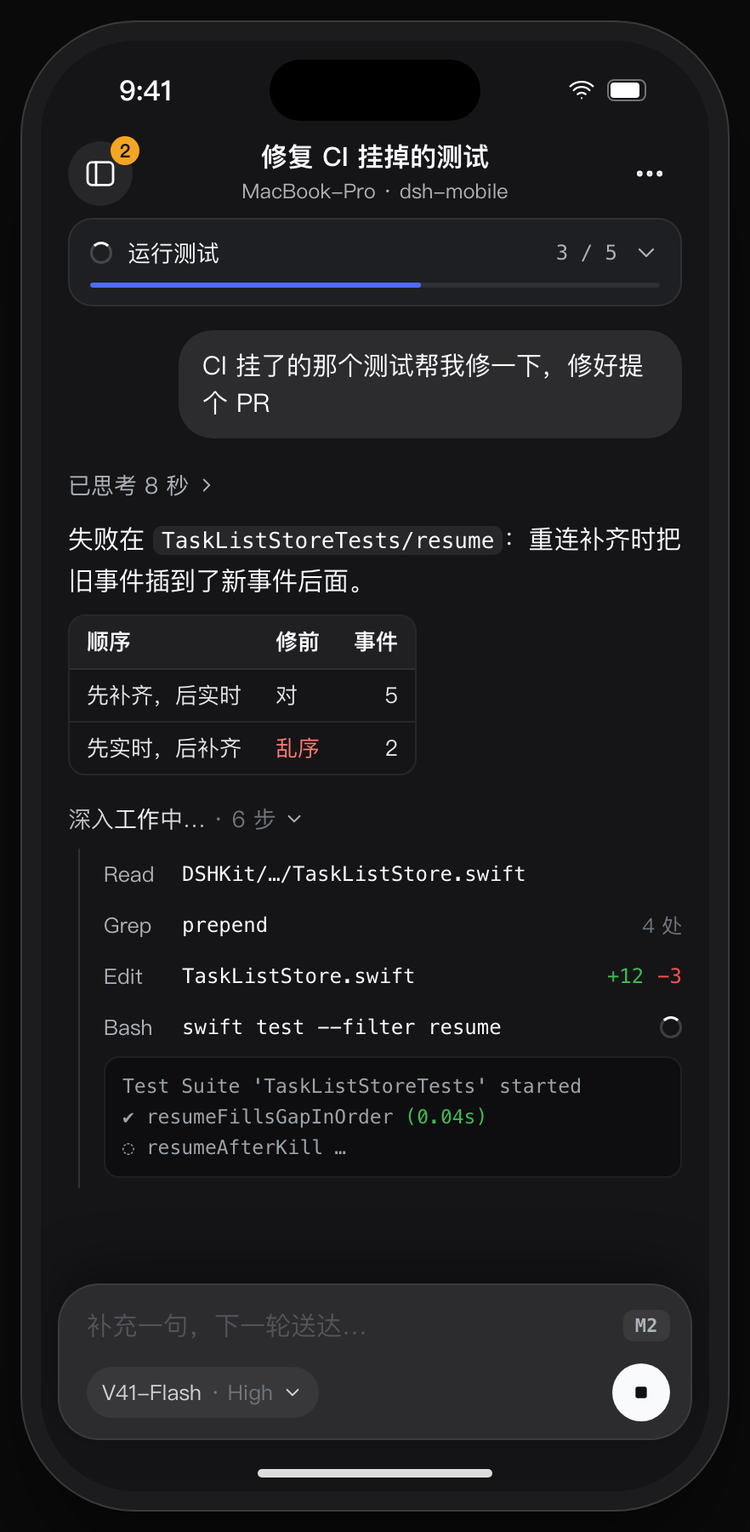
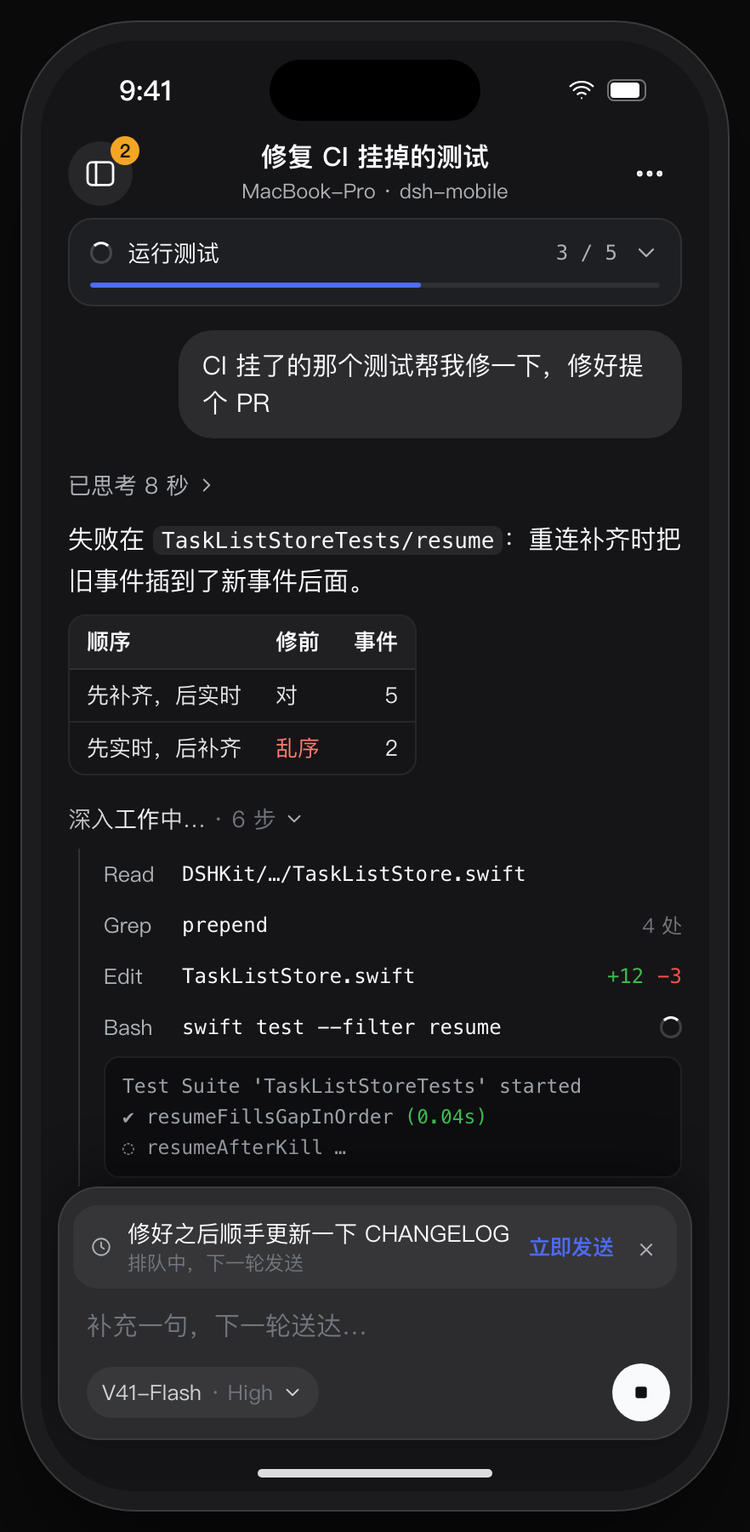
Follow-up queue: D18 amended, D89 amended, D101, D102; screens 04, 06, X1

Changed region(s): [[0.0612, 0.7778, 0.949, 0.8711]]

diff --git a/design/board.html b/design/board.html
@@ -433,9 +433,14 @@ svg.s{width:16px;height:16px} svg.xs{width:13px;height:13px} svg.l{width:24px;he
     </div>
   </div>
   <div class="composer">
-    <div class="ph" style="display:flex;align-items:center"><span style="opacity:.55">补充一句，下一轮送达…</span><span class="mtag mx">M2</span></div>
+    <div style="display:flex;align-items:center;gap:9px;background:rgba(255,255,255,.05);border-radius:14px;padding:7px 8px 7px 10px;margin:-3px -4px 11px -8px">
+      <svg class="i xs" style="color:var(--t2);flex:none"><use href="#clock"/></svg>
+      <div style="flex:1;min-width:0"><div style="font-size:13.5px;color:var(--t1);white-space:nowrap;overflow:hidden;text-overflow:ellipsis">修好之后顺手更新一下 CHANGELOG</div><div style="font-size:11.5px;color:var(--t3)">排队中，下一轮发送</div></div>
+      <span style="font-size:12.5px;font-weight:600;color:var(--blue);flex:none">立即发送</span>
+      <span style="font-size:15px;color:var(--t2);width:20px;text-align:center;flex:none">×</span>
+    </div>
+    <div class="ph">补充一句，下一轮送达…</div>
     <div class="bar">
-      
       <span class="pill">V41-Flash <span class="w">· High</span><svg class="i xs"><use href="#chevd"/></svg></span>
       <span class="send stop"><svg class="i s"><use href="#square"/></svg></span>
     </div>
@@ -582,7 +587,8 @@ svg.s{width:16px;height:16px} svg.xs{width:13px;height:13px} svg.l{width:24px;he
   <li>顶部钉住里程碑进度（S3），点开看全部步骤。</li>
   <li>回复里的 Markdown 表格画成原生表格（S28）：表头加底色，行间细线，列按分隔行对齐；单元格太长就换行，表格比屏幕宽时只在自己那一行里横向滑动。</li>
   <li>发送键变<b>停止</b>（S5）；模型胶囊就是“Change model”，任务中可换（S6）。</li>
-  <li>运行中在输入框里补充一句、排到下一轮还是 M2；运行中的会话页只有停止和换模型。任务完成后接着说见 06。</li>
+  <li>运行中也能在输入框里补充一句：默认<b>排队</b>，显示在输入框上方，这一轮做完后作为下一轮发给 Agent，多条按顺序各跑一轮。“立即发送”把它插进当前这一轮，Agent 下一步就读到；× 移除。Agent 收下后它离开队列，变成转录里的用户气泡，位置就是 Agent 收到它的地方。打字时发送键代替停止，发出后停止键回来。</li>
+  <li>停止任务时，还在排队的话放回输入框，不会偷偷发出。断线重连后队列和顺序不变。任务完成后接着说见 06，停止后接着说见 X1。</li>
 </ul></div>
 </div>
 
@@ -627,7 +633,7 @@ svg.s{width:16px;height:16px} svg.xs{width:13px;height:13px} svg.l{width:24px;he
   <li>“用时”只算最后一轮：从这一轮开始到结束，不算两轮之间的空闲。</li>
   <li>M1 的结果是文字：写清楚产物在执行端的哪个路径。</li>
   <li>虚线文件卡是 <b>M3</b>：Quick Look 预览、分享、存到文件。</li>
-  <li>完成后输入框直接可以接着说：发到同一个 DSH 会话（网页上也是这一个），你的气泡和新的回复接在这个回答下面，任务回到运行中，“用时”从这一轮算起。执行端不支持时，输入框和以前一样不能输入。失败或停止后接着说还是 M2。</li>
+  <li>完成后输入框直接可以接着说：发到同一个 DSH 会话（网页上也是这一个），你的气泡和新的回复接在这个回答下面，任务回到运行中，“用时”从这一轮算起。执行端不支持时，输入框和以前一样不能输入。停止后接着说见 X1；失败后接着说还是 M2。</li>
 </ul></div>
 </div>
 
@@ -911,7 +917,7 @@ svg.s{width:16px;height:16px} svg.xs{width:13px;height:13px} svg.l{width:24px;he
   <li>§4 叫回用户的三种时刻之一。顶部进度条变红，写明停在第几步。</li>
   <li>错误原文照给（任务的 failure message），可以“复制错误”。已经做了什么、东西在哪，由 Agent 自己在卡片上方的回答里说；App 不另写摘要。</li>
   <li>“新会话里再试”把原话预填进 01 的输入框；在原会话里接着说是 M2。</li>
-  <li>“卡住”（很久没有新进展）要靠推送提醒，放 M2。被停止的任务同样标在这里：同一张卡，写“任务已停止”，不变红，只有“新会话里再试”。</li>
+  <li>“卡住”（很久没有新进展）要靠推送提醒，放 M2。被停止的任务同样标在这里：同一张卡，写“任务已停止”，不变红，只有“新会话里再试”。停止后可以在原会话里接着说：新消息发到同一个 DSH 会话，任务回到运行中，“任务已停止”的卡片消失，顶部进度条也改写当前状态。</li>
 </ul></div>
 </div>
 

diff --git a/ARCHITECTURE.md b/ARCHITECTURE.md
@@ -110,7 +110,7 @@ Solid arrows are the outbound path (user → executor), dashed arrows the return
 | D15 | *Confirmed by the user (T0, 2026-11-07).* **Toolchain**: (a) codegen = `buf` + `protoc-gen-es` (pinned npm devDeps of `bridge/`) and `protoc-gen-swift` built by SwiftPM from the swift-protobuf version `ios/DSHKit` pins; one entry point, `scripts/codegen`. (b) Generated code **is committed**; `scripts/codegen --check` fails if regenerating changes anything. On merge conflicts in generated files, rerun codegen. (c) Bridge uses **pnpm**, pinned by `packageManager` (Node ≥ 24.9, as DSH requires); tests use the built-in `node:test`. (d) Swift: one local package **`ios/DSHKit`** with targets `DSHProtocol` (generated), `DSHCore` (connection, channels, store), `DSHTestSupport` (`FakeBridge`, debug-only); the app target holds views only. `swift test` runs `[auto]` items on the Mac without the shared Simulator. DSHKit targets macOS 15 for these host tests: a test bundle built for macOS 26 cannot load on a macOS 15 development machine with Xcode 26. The app targets iOS 26 (D2). | Everything pinned in the repo, nothing installed globally. Xcode opens and builds without a codegen toolchain, and protocol changes show up in review. pnpm matches how DSH profiles install plugins. |
 | D16 | *Confirmed by the user (T0, 2026-11-07).* **Testability entry points, Debug builds only**: launch arguments `-DSHMFakeBridge YES` (in-process `FakeBridge` instead of the loopback bridge), `-DSHMPresetPrompt <text>` (pre-filled composer), `-DSHMBridgePort <port>` (loopback port, default 47801 in this worktree); accessibility identifiers `composer.prompt`, `composer.send`, `task.status`, `transcript.text`; URL scheme `dshm://pair?…` routed to a pairing stub (S1 replaces it). The scheme is declared only in the Debug Info.plist, the code is behind `#if DEBUG`, and `scripts/check-release-clean` proves a Release build has none of them. | Lets agents and XCUITest drive every slice in the Simulator without a camera or a real DSH, without shipping test hooks. |
 | D17 | *Confirmed by the user (X1, 2026-11-05).* **Approval holder ordering: prepend + fan-out.** The bridge registers its `approval/request` answerer with `prepend: true`, parks each request, and re-dispatches a copy down the rest of the chain (the web/desktop forwarder) with its own abort signal. The first answer wins (phone or browser); the other copy is withdrawn. A downstream `unavailable` means "nobody else" and the bridge keeps holding. The bridge's own timeout settles `rejected`, never allow. Alternatives considered: (a) append, i.e. plain `ctx.on`: the web forwarder holds everything first, so the bridge never sees a request; (b) prepend only: the phone owns approvals, but the desktop browser shows a running task with no "input required"; (c) remove the web forwarder via a profile patch: breaks the web UI. | X1 measured all four (`spikes/x1-approval/README.md`). Fan-out keeps the account-wide pause (principle 5) without hiding the request from a user sitting at the computer. Upstream calls sibling order "not a policy-priority mechanism", so S12 pins this behavior with a test. |
-| D18 | *Confirmed by the user (X4, 2026-11-05).* **Mid-task context.** The facade exposes `SendMessage { task_id, mode: STEER \| QUEUE, parts }`, mapped 1:1 onto `sessionController.prompt` (files staged through `ctx.fileUploads` first). The app defaults to `STEER`. Agent questions are held by the same bridge holder as approvals (prepend + fan-out on `user-questions/request`), with their own `QuestionPending` / `AnswerQuestion` messages, not folded into approvals. *Amended 2026-11-08 (provisional, pending user confirmation):* `SendMessage { task_id, mode, text }` → `MessageAccepted` is in `protocol/conversation.proto` (capability `conversation.v1`); text parts only for now, file and image parts come with attachments. The first use is a follow-up after the task completed (**D89**). Alternatives considered: default `QUEUE` (the follow-up waits for the whole turn, often minutes); interrupt + re-prompt (loses the running step); presenting questions as approvals (wrong shape: options, multi-select, free text). | X4 measured steer vs queue, attachments and the question seam (`spikes/x4-midtask/README.md`). A follow-up written while the agent works is meant for this task now (principles 4, 7). |
+| D18 | *Confirmed by the user (X4, 2026-11-05).* **Mid-task context.** The facade exposes `SendMessage { task_id, mode: STEER \| QUEUE, parts }`, mapped 1:1 onto `sessionController.prompt` (files staged through `ctx.fileUploads` first). The app defaults to `STEER`. Agent questions are held by the same bridge holder as approvals (prepend + fan-out on `user-questions/request`), with their own `QuestionPending` / `AnswerQuestion` messages, not folded into approvals. *Amended 2026-11-08 (provisional, pending user confirmation):* `SendMessage { task_id, mode, text }` → `MessageAccepted` is in `protocol/conversation.proto` (capability `conversation.v1`); text parts only for now, file and image parts come with attachments. The first use is a follow-up after the task completed (**D89**). *Amended 2026-11-09 (provisional, pending user confirmation):* the app's default for a message sent while the task runs is now **`QUEUE`**: it waits above the composer and runs as the next turn, and the user moves it into the running turn with "立即发送" (DSH's `updateQueue` steer, the same effect as `STEER`); details in **D101**. Reason: in the Codex and Claude apps a message typed while the agent works waits for the turn by default, and a steer the user did not choose can derail a step half done; send-now keeps the fast path one tap away. Alternatives considered: default `QUEUE` (the follow-up waits for the whole turn, often minutes); interrupt + re-prompt (loses the running step); presenting questions as approvals (wrong shape: options, multi-select, free text). | X4 measured steer vs queue, attachments and the question seam (`spikes/x4-midtask/README.md`). A follow-up written while the agent works is meant for this task now (principles 4, 7). |
 | D19 | *Confirmed by the user (S3, 2026-11-07).* **Milestones**: (a) **Source** = the raw durable events on `sessionController.follow` (not the projection views): `turn/start` → STARTED (first turn only); `todo/write` → PLANNED when the items (by content, in order) change, then TODO_DONE / TODO_STARTED per status change, done before started; `plan/mode` → PLAN_MODE_ENTERED / LEFT when `active` flips; `llm/retry` → RETRYING with DSH's failure message (the "errors" input, besides a failed turn); `turn/end` → FINISHED, or FAILED with DSH's reason for any other kind. Unknown events and malformed payloads are ignored. Code: `bridge/src/milestones/mapper.ts`. (b) **Wire** = `MilestoneAdded { task_id, seq, kind, text, todos[], time_ms }` (`protocol/milestones.proto`, Event field 60, capability `milestones.v1`): a kind enum plus DSH's own words, and the **whole todo list** on every milestone, so the card never has to fold history and a resumed client (S2) needs only the latest one. `seq` is per task, separate from `AssistantChunk.seq`. The app labels kinds itself (`Features/Milestones/MilestoneLabels.swift`); no text is generated. (c) **UI**: a task card above the transcript leads with the todo in progress, shows `n of m` and the checklist, and opens a timeline (todos + every milestone with its DSH time). The card appears only once milestones arrive, so a bridge without `milestones.v1` gets T0's screen. S2's unified list is expected to reuse `MilestoneCard`. (d) **Testability** (extends D16): `-DSHMFakeMilestones YES` scripts a three-todo task in `FakeBridge`; identifiers `milestone.card` (label = headline, value = `done/total`), `milestone.timeline`, `milestone.row.<seq>` (value = kind), `milestone.todo.<i>` (value = status). (e) **Local acceptance** (`scripts/demo/s3-host.mjs`): DSH's mock LLM can return only one fixed tool call per server, so the script runs one mock instance per agent step (`tool_call_success` with that step's `todo_write` arguments) behind a small proxy that picks the instance by counting `tool_result` blocks, and renames the mock's fixed call id per step. | Deterministic, free, real-time (D11). Raw events rather than projection updates because they carry the transition (which todo just finished) and the DSH timestamp; the projection only says what the list is now. Alternatives considered: (1) forward the `todos` / `plan` projection views as-is and diff in the app: puts DSH semantics in the app, against D4; (2) one milestone per `todo/write` with no kinds: the card couldn't say "finished X"; (3) send only deltas: smaller, but every consumer must fold, and resume (S2) gets harder; (4) for the demo, a hand-written fake Messages server instead of DSH's mock: more code to maintain, and it drifts from the upstream mock. |
 | D20 | *Confirmed by the user (S2, 2026-11-07).* **Durable list + resume.** (a) **Bridge**: tasks belong to the host's `TaskHub` (`bridge/src/s2/`), not to the connection that created them; closing the socket no longer aborts the task. Every event the bridge forwards is appended to one per-host `HostLog` with a monotonic `Event.host_seq` and named by a random `log_id` per bridge process. The log is **in memory** (last 50,000 events). (b) **Protocol** (`protocol/s2.proto`, capability `resume.v1`): `Resume { log_id, after_seq }` replays exactly the logged events after `after_seq`, then answers `Resumed`, and the connection gets every live event from then on. Replay and subscribe happen in one synchronous step, so nothing falls between them. If the cursor doesn't apply (another `log_id`, i.e. the bridge restarted, or trimmed events) the bridge sends `LogReset` first and replays everything it kept. `ListTasks` returns every task with its state. `TaskUpserted` carries state changes; `TaskEnded` stays a task's last event. A client that never sends `Resume` (T0's) still gets only its own tasks' events. (c) **App**: SwiftData cache (`CachedHost` with the cursor `(log_id, last_seq)`, `CachedTask` with the transcript and per-task `last_chunk_seq`), saved within ~150 ms of each event. Events at or below the cursor, and chunks at or below a task's chunk seq, are skipped, so replays are idempotent. After a reset the app calls `ListTasks`; cached tasks still `running` in a log that's gone are marked failed ("the bridge restarted"). (d) **Reconnect**: one sync loop per host in `TaskListStore`: connect, Hello, Resume; on drop, exponential backoff 0.5 s → 30 s. `background()` closes the socket; `foreground()` reconnects at once and resumes. A host that can't be reached is shown as "*name* is offline" with the last connection time; sending to it fails at once with the same words (STORY principle 3). (e) **Testability** (Debug only, like D16): launch arguments `-DSHMFakeBridge offline` (the FakeBridge host is unreachable), `-DSHMResetStore YES` (empty cache), `-DSHMConnectDelay <seconds>` (show the cache before the first connection); accessibility identifiers `host.status`, `tasklist.row`, `tasklist.running` / `.waiting` / `.done`, `composer.error`. `FakeHost` (`DSHTestSupport`) is the fake bridge process whose tasks and log outlive connections. | DSH has no server-side resume cursor, so the bridge keeps one. In-memory is enough for "kill the app, reopen": the bridge keeps running. Alternatives: **persist the log** in `DSH_HOME` (survives bridge restarts, but needs a file format and pruning; revisit if restarts lose real work, together with S4's held approvals); **re-read DSH's own session logs** on resume (no second log, but couples the app's cursor to DSH internals, against D4); **per-task cursors instead of one host seq** (no global order for the list, more state on the phone); **Core Data / GRDB / files instead of SwiftData** (D9 already chose SwiftData). |
 | D21 | *Confirmed by the user (S1, 2026-11-07).* **Pairing and the encrypted wire** (implements D6). (a) **Offer** = the URL `dshm://pair?v=1&n=<host name>&a=<host:port,…>&k=<host key>&i=<offer id>&s=<secret>&x=<expiry>` (k/i/s unpadded base64url, 32/16/32 bytes; x Unix seconds), shown by the bridge as a terminal QR (`uqr`) at startup when no device is paired and on demand with `node bridge/lib/scripts/pair.js`; the same URL is D16's Debug deep link. Offers are **single use** (burnt on the first valid Noise message 1, before the host answers) and expire after **10 minutes**; the app also refuses an expired offer before connecting. (b) **Wire**: the app's first WebSocket message is `[1, mode, offer id if pairing] ‖ Noise message 1`; the header is bound into the prologue (`"dshm/1" ‖ header`); handshake payloads are empty; then one WebSocket binary message = one Noise transport message = one protobuf `Frame`. Refusals are WebSocket close codes 4000 bad hello / 4001 pairing rejected (unknown, expired, used, wrong secret) / 4002 handshake failed / 4003 device unknown. (c) **Bridge state** in `$DSH_HOME/dsh-mobile-bridge/` (dir 0700, files 0600, atomic writes): host X25519 key, offers, device registry (store only; list/revoke UI is S10). A device is registered only after its first valid transport message. (d) **Listener**: default `0.0.0.0:47801`, Noise on every path. The plaintext channel exists only with `devPlaintext: true`, only on `/plaintext`, and only on a loopback listener; in the app `PlaintextChannel` is compiled into Debug builds only (`scripts/check-release-clean`). `scripts/dsh-up.mjs` (the dev host) turns `devPlaintext` on and binds loopback so T0's demo keeps working. (e) **App**: tries the offer's addresses in order; saves the host (name, addresses with the working one first, host key) as JSON in Application Support; reconnects with IK to the first address. (f) Golden transcripts (`protocol/fixtures/noise/transcripts.json`, fixed keys) are checked by both the TS and the Swift tests. Known limits: Noise caps a message at 65535 bytes (fine for M1's frames; large artifacts in M3 need chunking); one address at a time on reconnect. | Alternatives: a JSON or protobuf offer inside the QR instead of a URL (a URL doubles as the Debug deep link and a pasteable link next to the QR); multi-use or longer-lived offers (single use + short expiry limits a leaked screenshot); registering the device right after message 1 (waiting for the first transport message means only a phone that finished the handshake is recorded); a separate plaintext port (a path on the same port keeps one listener and one firewall rule). |
@@ -145,8 +145,10 @@ Solid arrows are the outbound path (user → executor), dashed arrows the return
 | D82 | *Confirmed by the user (S29, 2026-11-08).* **A close 4003 (device unknown) is final: the app forgets the host.** The host refuses this device with WebSocket close 4003 in two places (D21 b, D40): on its live sockets right after a revoke of it (from this phone, another client or the web UI), and on every later Noise reconnect. `HostConnection` records the refusal (`deviceRevoked`, `HostConnectionError.deviceRevoked`) from the close of a live socket, a refused handshake (`NoiseChannelError.deviceUnknown`) or a refused transport. `TaskListStore`'s sync loop then stops for that host instead of backing off and retrying: it drops the host and its rows, adds it to `revokedHosts`, and calls `onHostRevoked` once. `AppModel` forgets the host as in D59 (removes the pairing, rebuilds the store) and shows the alert "Access removed: <host> revoked this phone's access. To use it again, pair it again." once; not after a revoke from this phone's X2 whose response arrived first (the user knows). With no host left the root shows 08, else 01 with the other hosts. Before a revoke of this device, the alert (X2 and the drawer's "Devices and audit") says what happens: "This phone will be removed from <host>. <host> will leave the drawer, with nothing left to tap, and the phone will not reconnect to it. To use it again, pair again." (the user, 2026-11-08); a revoke of another device keeps its own message. A host that is only offline (connection refused, timeout, other close codes) is retried with backoff as before. Root cause of the 2026-11-08 report: the app treated 4003 like a dropped connection, so a host that revoked this phone stayed in the drawer and showed "connecting" on every backoff round. D59's forget ran only after the revoke response in X2 (H's host detail). The drawer's "Devices and audit" under each host (S10's `DeviceManagementView`) can also revoke this device, and it only closed the view; a revoke from the web UI or another client has no app path at all. On a real bridge (scripts/demo/s29.sh) the X2 path already worked before the fix (the response arrives before the close) and the drawer path reproduced the bug. `FakeHost` now closes and refuses with 4003 like the bridge (`revokeThisDevice()` revokes from another client). | Alternatives: keep the host in the list as "access removed" with a Pair again button (needs a new reachability state in every host view, and the D59 alternative "keep the revoked host as no access" was not chosen); keep retrying with a long backoff (still never succeeds, and the drawer still shows the host); forget the host without a notice (the user would not know why it went, when the revoke came from another client); ask the bridge to send a `DeviceRevoked` event before the close (a protocol change for the same effect; the close code is already the bridge's contract, D21). |
 | D85 | *Confirmed by the user (S30, 2026-11-08).* **Pairing a host again clears its revoke.** `AppModel.forgottenHostKeys` holds `noise:<host id>` after D59/D82 forget a host, and `PairedHost.id` comes from the host key, so the same Mac paired again has the same key. A successful pairing (`closePairing`) removes that key from the set before it builds or extends the store, so the host shows in the drawer, and a later revoke forgets it (and says so) again. Root cause of the 2026-11-08 report ("Couldn't open your paired computers" after a fresh QR from a Mac that had revoked this phone): `makeStore` dropped the newly paired host, so `store` was nil while `hasSavedHosts` was true; a relaunch hid it, because the set is in memory only. The set stays: the paired-host file is the truth for Noise hosts, but the set keeps a fake host out of the store, says each revoke once, and keeps the Debug loopback away from 08. Test: `S30PairAgainUITests` on a real bridge (scripts/demo/s30.sh). | Alternatives: drop the set and use only the file (the fake hosts and the once-only notice need it); clear the whole set on any pairing (would let another revoked fake host back); key the store by a pairing instance instead of the host key (a larger change for the same effect). |
 | D88 | *Confirmed by the user (S31, 2026-11-08).* **App Transport Security allows cleartext loads (`NSAllowsArbitraryLoads`), the same in Debug and Release.** The app reaches the bridge with plain `ws://` (`WebSocketTransport`, `URLSession`) at the IP addresses in the pairing QR: every external IPv4 of the Mac (LAN, Tailscale 100.x, D21). ATS refuses cleartext to an IP outside the local ranges before any packet leaves the phone (`NSURLErrorAppTransportSecurityRequiresSecureConnection`, -1022); 192.168.x passed, so LAN pairing worked. Root cause of the 2026-11-08 report ("couldn't reach the host at 30.34.227.222:47801, 100.79.171.34:47801"; tcpdump on the Mac saw 0 packets from the app, Safari on the phone reached the bridge). The exception is safe here: every frame is Noise-encrypted and authenticated end to end (D6, D21), and the app talks to no server but the bridge. The key is in `ios/Config/Debug-Info.plist` and `ios/Config/Release-Info.plist` (new; Release had no Info.plist file); `scripts/check-release-clean` fails when the two differ. Also: a pairing failure now names the reason for each address (`PairingError.reason(for:)`, e.g. "URL error -1022, App Transport Security"); the bare "couldn't reach" hid it. Test: `S31PairTailscaleUITests` on a real bridge bound to 0.0.0.0, with a QR that lists only the Mac's non-local addresses (scripts/demo/s31.sh; the Simulator enforces ATS like the phone). Failed before the fix with -1022 for both addresses (`evidence/S31/before-fix-ui.txt`). | Alternatives: `NSAllowsLocalNetworking` (covers only local names and ranges, not 100.64/10 or a public LAN like 30.x); `NSExceptionDomains` (cannot name IP addresses; MagicDNS `*.ts.net` names would need a QR change and still miss a public LAN); a WebSocket on Network.framework (`NWProtocolWebSocket`, which ATS does not cover: keeps ATS on for any later `URLSession` use, but a new transport with its own close-code handling for D82; the choice if App Review objects); `wss://` with TLS on the bridge (a certificate per Mac, which the phone cannot verify without pinning, on top of Noise). |
-| D89 | *Provisional, pending user confirmation.* **A follow-up message continues the task (screen 04).** A task stays one DSH session (D13), and a follow-up is one more `sessionController.prompt` into it (D18; `mode: steer`, which starts a new turn on an idle session; the message ID is DSH's `requestId`, so a repeated send is accepted once). **Bridge:** `TaskHub.sendMessage` takes a follow-up only for a phone task that is COMPLETED (not while it runs, not after a failure or a stop, not for a session from another client: those come later). `DshTasks.followUp` opens a new `follow` before it prompts and maps the first turn whose number is larger than the task's latest one; the hub keeps the task's chunk seq and milestone seq across turns (`AssistantChunk.seq` has no gaps per task), and the turn's thinking block IDs get a `turn-N-` prefix. After DSH accepts it: `MessageAccepted`, then a logged `UserMessage { task_id, message_id, text, time_ms }` (Event 360), `TaskUpserted` RUNNING with `turn_started_at_ms` (D76), the turn's chunks and blocks, and `TaskEnded` again. Follow-up turns add no milestones (the S3 mapper reads the first turn). Apps without `conversation.v1` in their Hello get no `UserMessage`. **App:** `TaskEvent.userMessage` becomes a `TranscriptItem` of kind `.userMessage` in the task's `StructuredTranscript`, at the offset of the text so far, like a S17 row; the next turn's chunks append to the same transcript, so the page draws the first answer, the user bubble, and the reply, and Resume replays the same page. The page keeps the streamed transcript (not the DSH journal) while every journal user message after the first is a follow-up from this phone (`StructuredTranscript.followUpCount`). `SessionComposer` takes text when `TaskListStore.canFollowUp` (completed, online, `conversation.v1`); otherwise it stays as before. FakeHost: `Script.followUpReply`. | Alternatives considered: (1) a new task per follow-up (loses the session's context; DSH Web would show two sessions); (2) the app inserts the user bubble itself when the send returns (a reconnect or another phone would not see it, and it could sit in the wrong place against the stream); (3) re-read the DSH journal after each turn (no streaming of the reply; needs `sessions.v1`); (4) carry the message as a new `TranscriptBlock` kind (it is not S17's data, and older apps would drop it silently instead of by capability); (5) `mode: queue` (the same on an idle session; D18 makes steer the default for later follow-ups while a task runs). | STORY §4 and §7: the user adds to the work from the phone, and the result comes back where the conversation is. |
+| D89 | *Provisional, pending user confirmation.* **A follow-up message continues the task (screen 04).** A task stays one DSH session (D13), and a follow-up is one more `sessionController.prompt` into it (D18; `mode: steer`, which starts a new turn on an idle session; the message ID is DSH's `requestId`, so a repeated send is accepted once). **Bridge:** `TaskHub.sendMessage` takes a follow-up only for a phone task that is COMPLETED (not while it runs, not after a failure or a stop, not for a session from another client: those come later). `DshTasks.followUp` opens a new `follow` before it prompts and maps the first turn whose number is larger than the task's latest one; the hub keeps the task's chunk seq and milestone seq across turns (`AssistantChunk.seq` has no gaps per task), and the turn's thinking block IDs get a `turn-N-` prefix. After DSH accepts it: `MessageAccepted`, then a logged `UserMessage { task_id, message_id, text, time_ms }` (Event 360), `TaskUpserted` RUNNING with `turn_started_at_ms` (D76), the turn's chunks and blocks, and `TaskEnded` again. Follow-up turns add no milestones (the S3 mapper reads the first turn). Apps without `conversation.v1` in their Hello get no `UserMessage`. **App:** `TaskEvent.userMessage` becomes a `TranscriptItem` of kind `.userMessage` in the task's `StructuredTranscript`, at the offset of the text so far, like a S17 row; the next turn's chunks append to the same transcript, so the page draws the first answer, the user bubble, and the reply, and Resume replays the same page. The page keeps the streamed transcript (not the DSH journal) while every journal user message after the first is a follow-up from this phone (`StructuredTranscript.followUpCount`). `SessionComposer` takes text when `TaskListStore.canFollowUp` (completed, online, `conversation.v1`); otherwise it stays as before. FakeHost: `Script.followUpReply`. *Amended 2026-11-09 (provisional, pending user confirmation):* the hub now also takes a follow-up while the task runs (queued, **D101**) and after a stop (a new turn in the same session, **D101**); a failure still refuses it. The `turn-N-` prefix uses DSH's turn number, and for a message sent while the task runs the bridge logs `UserMessage` where DSH takes it into the session, not when DSH accepts it (**D102**). | Alternatives considered: (1) a new task per follow-up (loses the session's context; DSH Web would show two sessions); (2) the app inserts the user bubble itself when the send returns (a reconnect or another phone would not see it, and it could sit in the wrong place against the stream); (3) re-read the DSH journal after each turn (no streaming of the reply; needs `sessions.v1`); (4) carry the message as a new `TranscriptBlock` kind (it is not S17's data, and older apps would drop it silently instead of by capability); (5) `mode: queue` (the same on an idle session; D18 makes steer the default for later follow-ups while a task runs). | STORY §4 and §7: the user adds to the work from the phone, and the result comes back where the conversation is. |
 | D92 | *Provisional, pending user confirmation.* **Agent questions (screen P1, extends D18).** `protocol/questions.proto` (`questions.v1`, fields 380–399): `QuestionPending { id, task_id, questions[{ id, text, header, detail, options[{ label, description }], multi_select }] }`, `AnswerQuestion { id, answers[{ question_id, selected[] }] }`, `QuestionResolved { id, task_id, outcome: ANSWERED \| ANSWERED_ELSEWHERE \| CANCELLED, answers }`. The bridge's `QuestionHolder` (`bridge/src/questions/holder.ts`) registers on `user-questions/request` with `prepend: true` and fans a copy out to the rest of the chain, as D17 does for approvals; the first answer wins and the other copy is aborted. A phone answer must name one offered option per question (one or more when `multi_select`); the model gets `{ answers: [{ id, selected }] }` as the tool result. A question has **no timeout**: the task waits until a person answers, the user interrupts, or DSH aborts the turn (then `CANCELLED`; the holder rejects the waterfall, so DSH records the ask as aborted). Questions are logged in the host log like other events, so a resumed phone gets the card; the task's state stays as DSH reports it. The app keeps the card as a `TranscriptItem` of kind `.question` (`ios/DSHKit/Sources/DSHCore/Questions.swift`), placed where the text stood when it arrived; the bridge hides the `ask_user_question` tool row, which the card replaces. Alternatives: time out like approvals (D25) — but an unanswered question has no safe default to settle on, and DSH Web also waits; fold questions into `TaskSummary` now — left out to keep the protocol change small; show the tool row and the card together — the same call twice. |
+| D101 | *Provisional, pending user confirmation.* **Follow-ups while a task runs, and after a stop (screens 04, X1; amends D18, D89).** `protocol/conversation.proto` (capability `conversation.v2`; field 361 in the conversation block 360–379, not a new block): Event `QueuedMessage { task_id, message_id, text, time_ms, placement: QUEUED \| STEERING \| REMOVED \| RETURNED }`, Request `EditQueue { task_id, message_id, action: STEER \| REMOVE }` → `QueueEdited { task_id, message_id, placement }`. **Send:** a `SendMessage` while the task runs goes to DSH as `sessionController.prompt` with the app's mode (`QUEUE` by default), and the bridge logs `QueuedMessage` QUEUED (or STEERING). **立即发送:** `EditQueue` STEER → `sessionController.updateQueue({ action: steer })` on the DSH queue item whose `rpcId` is the message ID; DSH gives it to the agent at the next step of this turn. When DSH answers `session/steer-unavailable` (the turn is ending), the message stays QUEUED and runs as the next turn. **Remove:** `updateQueue({ action: remove })`, then REMOVED; a message DSH no longer has is refused (`queue/refused`). **Taken:** when DSH writes the message into the session (`user/message` with `source.rpcId` = the message ID), the bridge logs `UserMessage` (D89) at that place in the stream, and the app takes the message out of the queue and draws the bubble there. **Stop:** DSH keeps its queue after `cancel`, so the bridge removes the task's waiting messages from DSH and logs them RETURNED; the app puts their text back into the composer, so nothing is sent that the user did not see go. **After a stop:** `canFollowUp` takes INTERRUPTED (with `conversation.v2`); a new message is a `prompt` that starts a new turn in the same DSH session, and the stopped card goes when the task is RUNNING again. The host log replays `QueuedMessage` and `UserMessage`, so the queue and its order are the same after a reconnect. Apps without `conversation.v2` get no `QueuedMessage` and keep the D89 behaviour. App: `FollowUpQueue` (`ios/DSHKit/Sources/DSHCore/FollowUpQueue.swift`), `TaskListStore.sendNow` / `removeQueued` / `takeReturnedDrafts`, `FollowUpQueueView` above the field; while the field has text the send key replaces the stop key. Follow-up turns add no milestones (D89), so when the last milestone is a stop or a finish that a follow-up has passed, the milestone bar says what the task does now (`MilestoneBar.line`). Not yet: attachments in follow-ups, a follow-up after a failure, editing a queued message's text. Alternatives considered: (1) keep `STEER` as the default (D18 before) — the message goes into a step the agent is in the middle of, which the user cannot take back; (2) queue in the bridge and prompt DSH at the turn's end — two queues that can disagree, and DSH Web would not show the message as waiting; (3) send queued messages after a stop — they would run without the user seeing the stop first; leaving them in DSH's queue — they would run at the next prompt, out of order with what the user types; (4) a new block of 20 field numbers — the messages belong to the conversation block, which has room. | STORY §4, §7: the user adds to the work while it runs, without breaking the step the agent is in, and stays in control of what is sent. |
+| D102 | *Provisional, pending user confirmation.* **One follow across turns (bridge, extends D89).** A queued message makes DSH start the next turn by itself, with no new `prompt` from the bridge. So `DshTasks` keeps following the session past a completed `turn/end` while `continues()` says a message of the task still waits: the hub's own waiting set, after any send in flight has its answer, checked against `sessionController.state` (a message DSH no longer has is logged REMOVED). Each continued turn sends `TaskUpserted` RUNNING with a new `turn_started_at_ms`, and its block IDs get the `turn-N-` prefix, where N is DSH's turn number. `user/message` events from DSH that are not the turn's own prompt become `UserMessage` where they come. Alternatives considered: (1) a new `follow` for each turn, started when the hub sees a turn end — the next turn can start before the new follow, and its first events are lost; (2) only DSH's `state` as the source of truth — between `prompt` and DSH's answer the message is in neither place, so the follow could end too early. | Makes the queue (D101) run through to the end of the last queued message without the phone. |
 
 ## 4. iOS app (`ios/`)
 

diff --git a/DESIGN.md b/DESIGN.md
@@ -65,7 +65,7 @@ A phone in front sends work up to a terminal window: the user's own computer (ST
 | §4 Async first; milestones; 所有任务; sessions from other clients; failed or stuck; agent questions | 02, 03, 04, P1, F1–F4, X1, L |
 | §5 Approvals show impact; never allowed by default; risk tiers; plan and pre-authorization; re-confirm | 03, 05, P3, P2, P4, L |
 | §6 Usable by anyone; first run | 08 |
-| §7 Results come to the phone; phone as context; add to a running task | 06 (M3 card; follow-up after it is done, D89), 04 (M2 composer while it runs), P1 · share sheet, photos, voice: not drawn (M3/M4) |
+| §7 Results come to the phone; phone as context; add to a running task | 06 (M3 card; follow-up after it is done, D89), 04 (follow-ups queued while it runs, send now, D101), X1 (continue after a stop), P1 · share sheet, photos, voice: not drawn (M3/M4) |
 | §8 User picks the model; never swapped silently | M, X4, 04 |
 | §9 Control: devices, revocation, audit | H, X2 |
 
